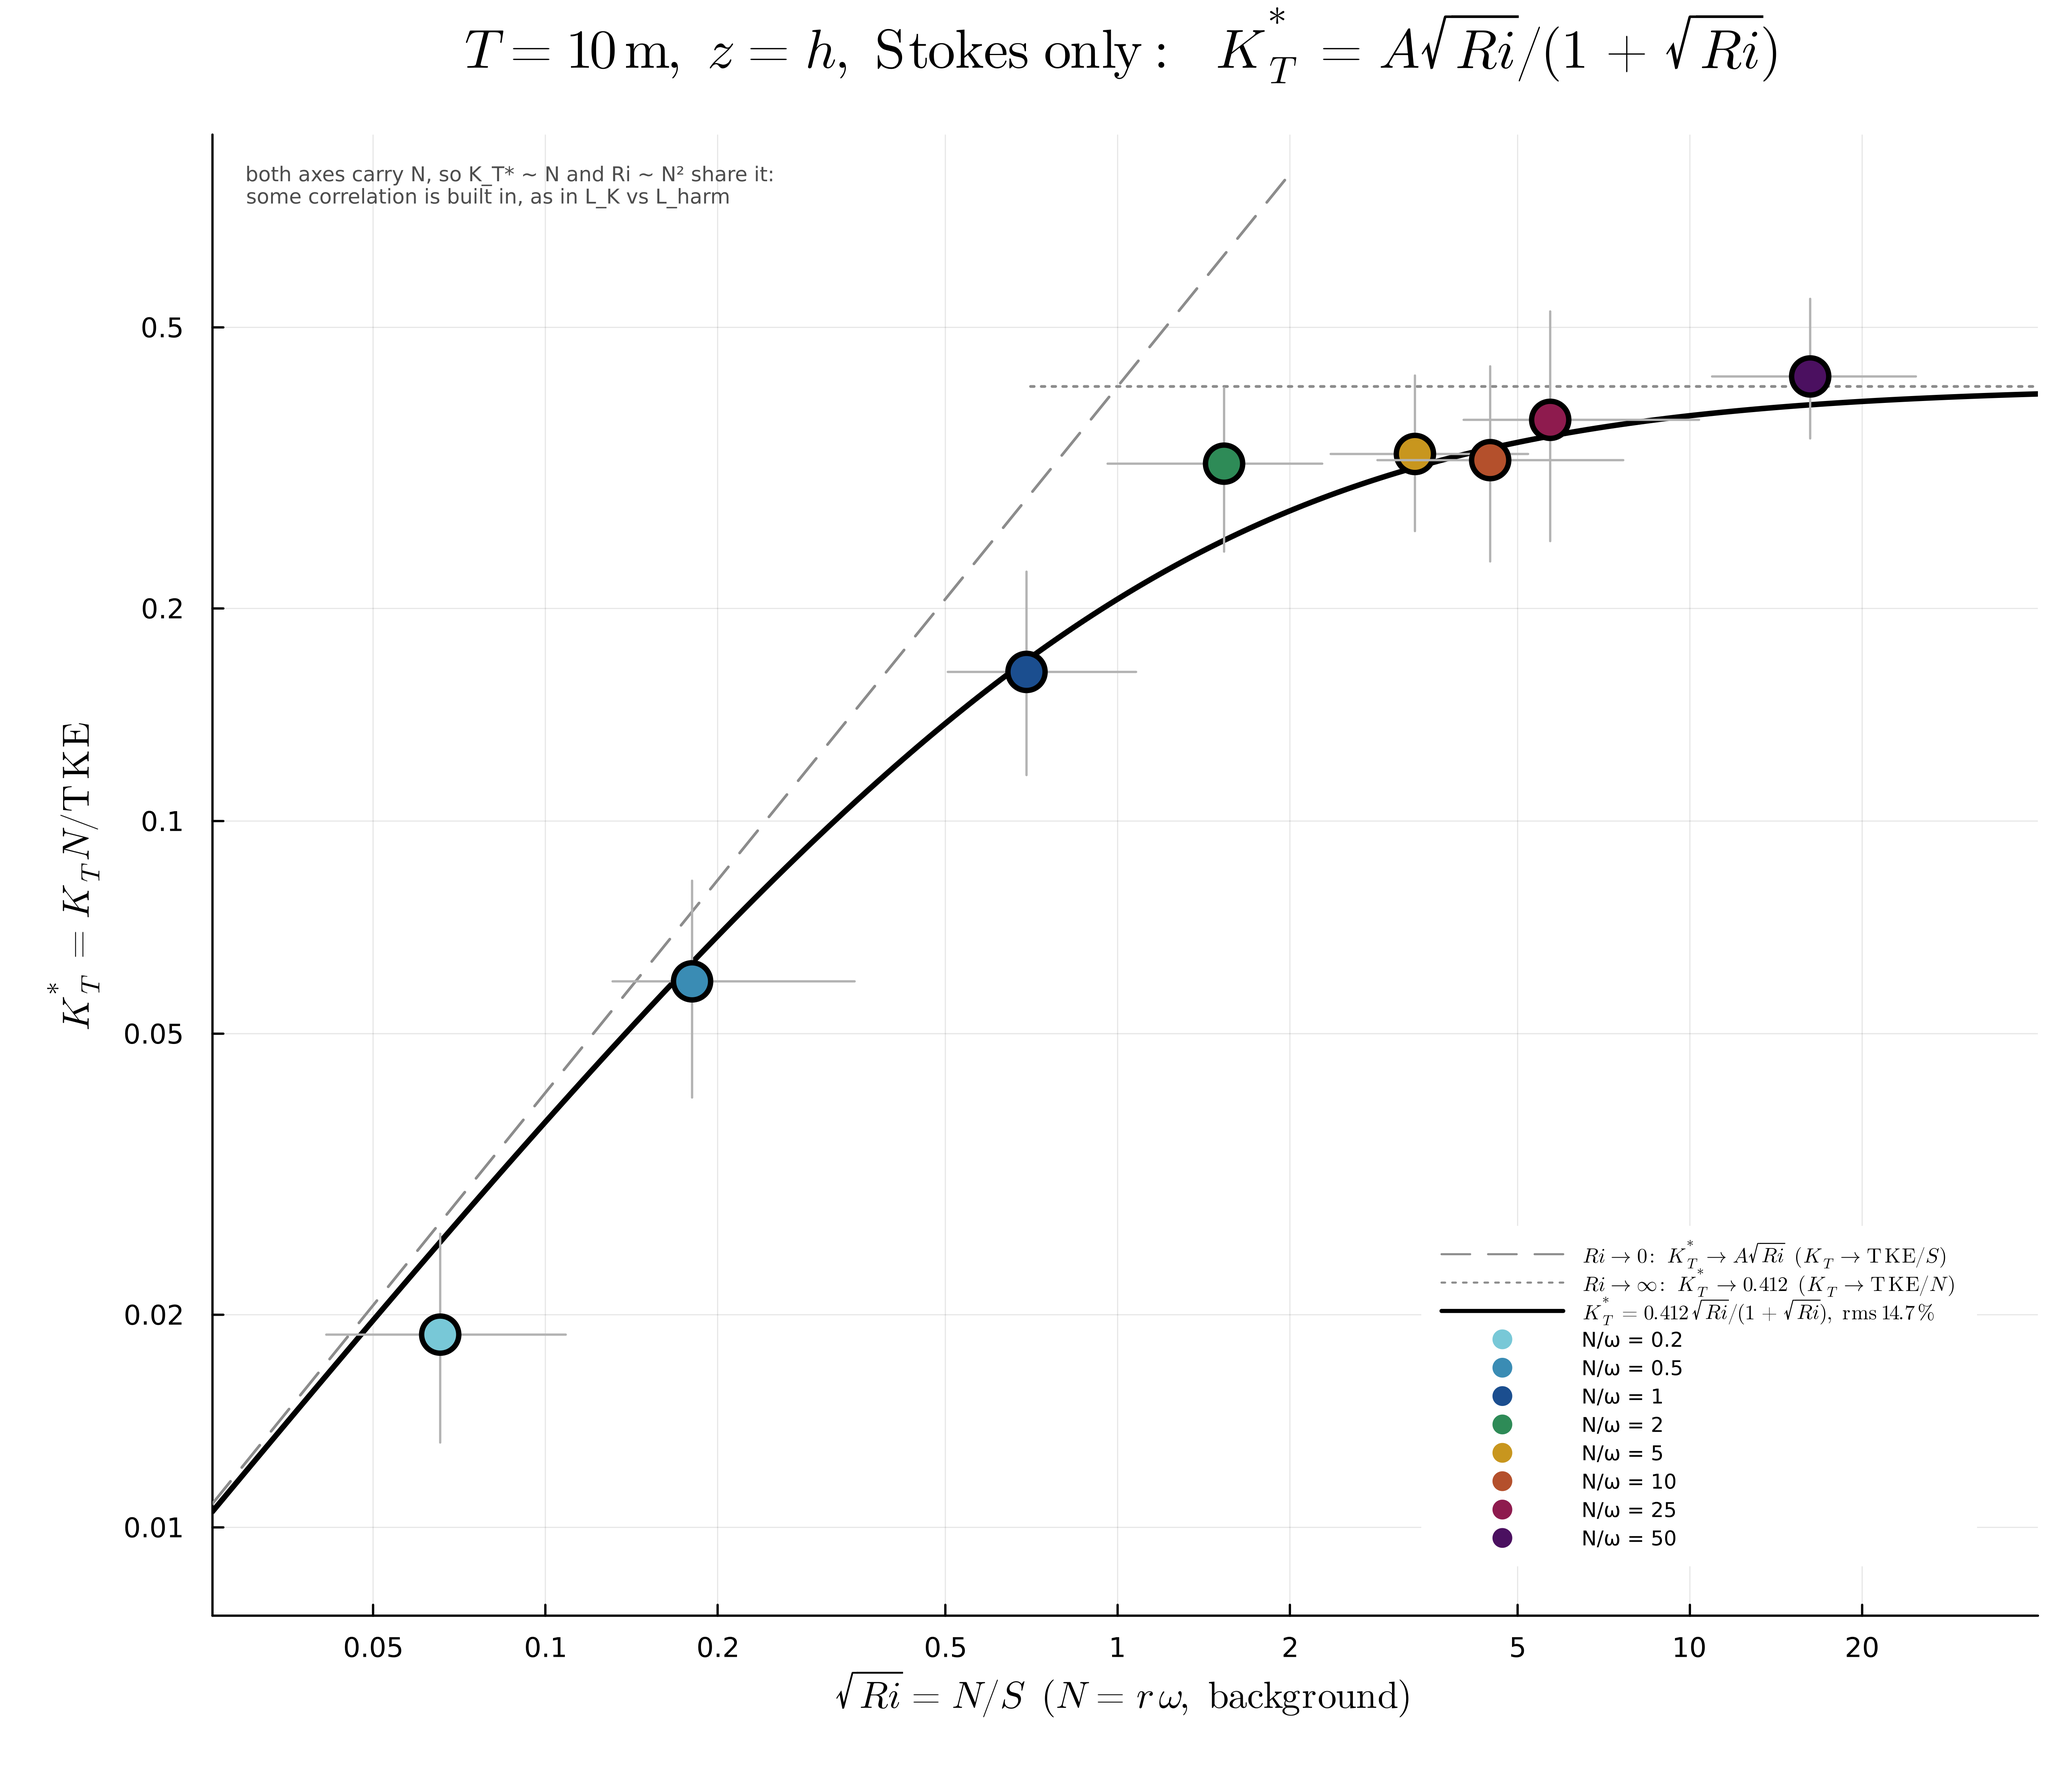
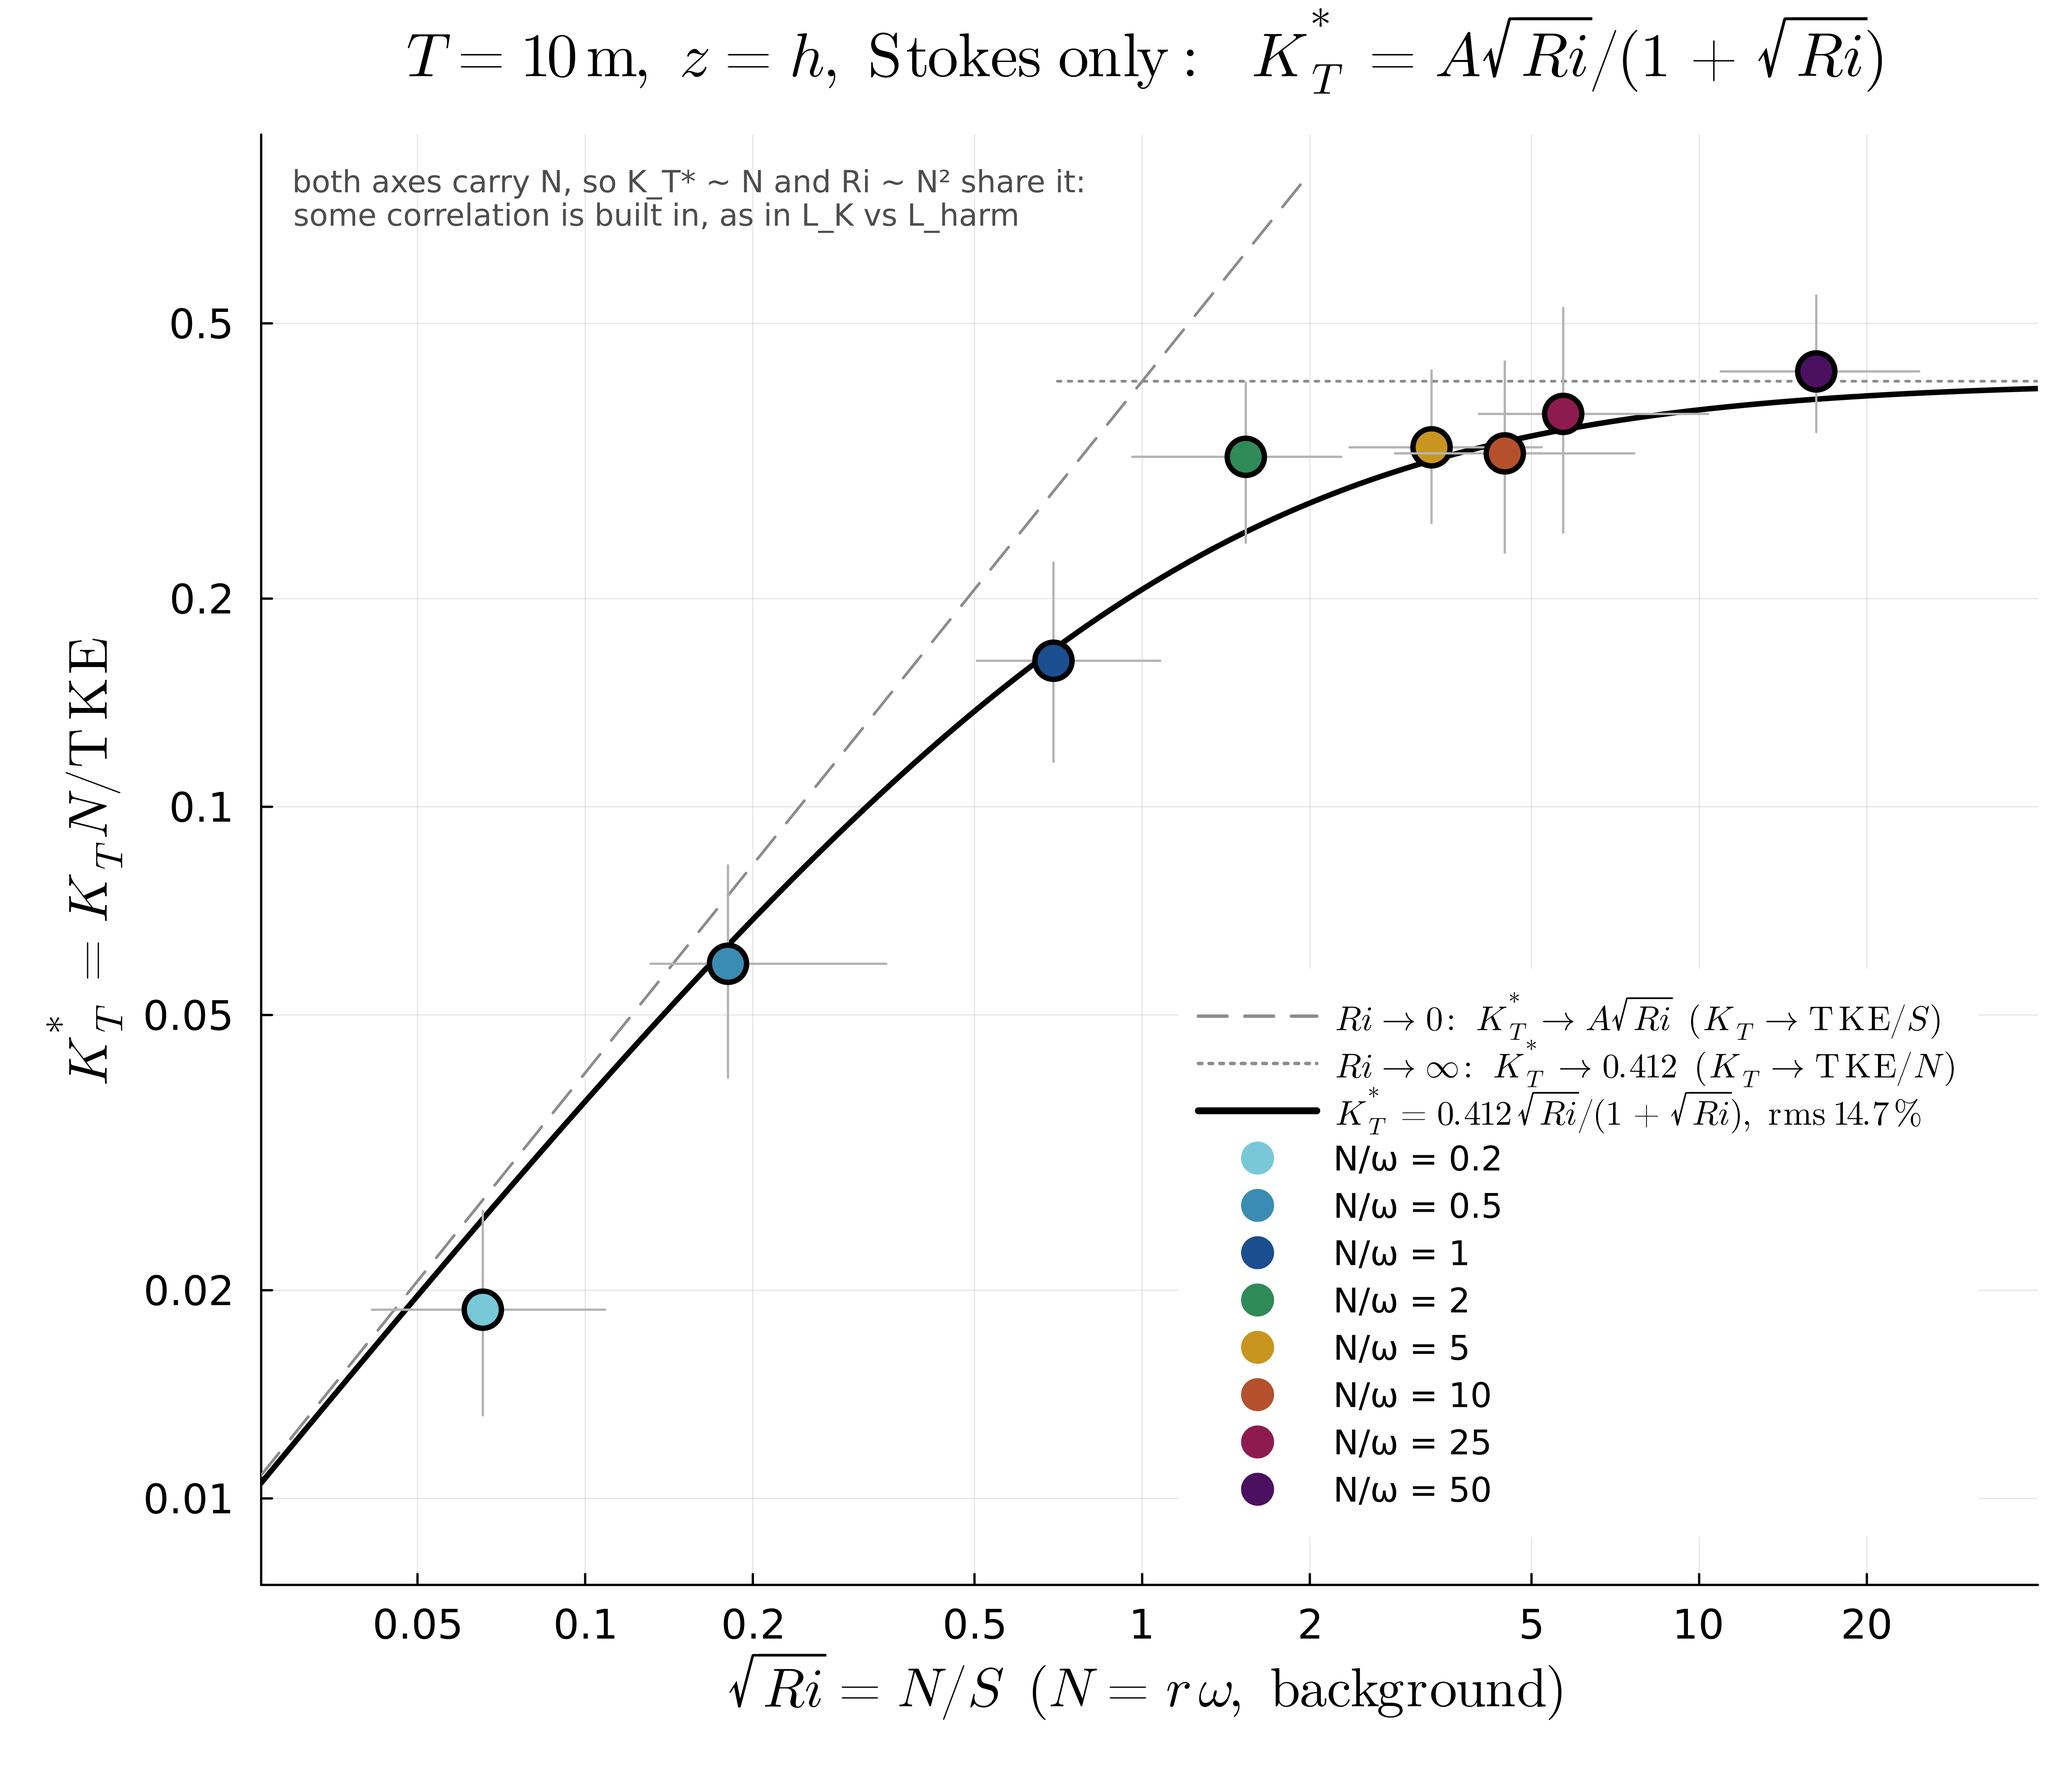
non dimensionalised graphs update

diff --git a/Combined/README.md b/Combined/README.md
@@ -643,6 +643,56 @@ What stays out of reach either way is the **well-mixed interior**, where `Ri` is
 genuinely small: there is no gradient there, so `K_T = −F_b/⟨∂b/∂z⟩` does not
 exist, and no choice of height changes that.
 
+### Text size on the `K_T*` figures
+
+The four `K_T*` scripts (`plot_KTstar_Ri_{stokes,ekman,zscan,zscan_ekman}_T10.jl`)
+use larger fonts than the rest of `plot/` — axis labels 16, ticks 12, legend 10,
+title 18, annotations 9 — so they read on a slide. On
+`KTstar_vs_Ri_zscan_T10.png` that crowded the 1-2-5 x ticks over eight decades
+into each other, so that axis is ticked at decades only.
+
+### The height scan, Ekman only — `plot/plot_KTstar_Ri_zscan_ekman_T10.jl`
+
+```
+cd Combined
+GKSwstype=100 julia --project=. plot/plot_KTstar_Ri_zscan_ekman_T10.jl   # ~minutes, reads Moments.jld2
+```
+
+The Ekman half of the scan above, on its own axes, with its own fit. Same
+construction, same heights, same masks; the all-`r` fit reproduces the both-flows
+script's Ekman row exactly (`A` = 0.1488, 52.3 %, `n` = 50), which is the check
+that the port is faithful. Two figures, same axis limits so they sit side by side:
+
+- `figures/KTstar_vs_Ri_zscan_ekman_T10.png` — all eight `r`
+- `figures/KTstar_vs_Ri_zscan_ekman_lowr_T10.png` — `r` = 25 and 50 left out (`DROP = 25`)
+
+| set | `A` | rms | `n` | `Ri` range |
+|---|---|---|---|---|
+| all `r` | 0.149 | 52.3 % | 50 | 8.8×10⁻³ → 4.5×10⁵ |
+| `r` < 25 | 0.122 | 39.8 % | 38 | 8.8×10⁻³ → 5.8×10⁴ |
+
+Per-`r` median of `K_T*`/fit (all-`r` fit → `r` < 25 fit):
+
+| r | 0.2 | 0.5 | 1 | 2 | 5 | 10 | 25 | 50 |
+|---|---|---|---|---|---|---|---|---|
+| all | 1.05 | 0.75 | 0.83 | 0.73 | 0.54 | 0.74 | 1.47 | 2.44 |
+| `r` < 25 | 1.28 | 0.91 | 1.01 | 0.89 | 0.66 | 0.90 | — | — |
+
+**Why those two:** `r` = 25 and 50 are the cases whose points keep climbing at
+high `Ri` instead of flattening, to `K_T*` 0.3–0.5 against a plateau of ~0.1 for
+the rest. They are also the two thinnest layers (`h` = 8.3 and 6.2 m against
+11–23 m for `r` ≤ 10), so the same `z/h` puts their scan at a different place
+relative to the stratification above. Leaving them out is a choice on how the
+points look, not on a physical criterion, and should be presented that way.
+
+**What it buys:** rms 52 → 40 % and a lower plateau, `A` = 0.122. It does
+**not** make the scan tight — 40 % is still nearly three times the Stokes `z = h`
+figure's 14.7 % — and the plateau moves *further* from Stokes (0.331), so it does
+not help the universality question. Two outliers remain in the kept set: `r` = 1
+at `z/h` = 2.5 and 3.0 (`K_T*` 0.18, 0.62), the same climb at the top of the scan.
+With the plateau lowered, the low-`Ri` points (`r` = 0.2, 0.5) now sit above the
+curve rather than on it.
+
 ## The one-figure summary
 
 ```

diff --git a/Combined/HANDOVER.md b/Combined/HANDOVER.md
@@ -57,7 +57,7 @@ STANDING RULES:
   Scripts live one level down and are invoked with their folder, e.g.
   `GKSwstype=100 julia --project=. plot/plot_delta_T10.jl`. The layout is
       Combined/sweep.jl, mixed_layer_height.jl   shared, included by everything
-      Combined/plot/     the 14 plot_* scripts
+      Combined/plot/     the 15 plot_* scripts
       Combined/reduce/   the 3 reduce_* scripts
       Combined/run/      ekmanrun.jl, swirles.sh
       Combined/Data/raw/      Ekman, Ekman_moments, lowN, rough_ekman
@@ -68,7 +68,10 @@ STANDING RULES:
   must do the same, not @__DIR__.
 - One figure per question. Extra diagnostics go in the log file, not more panels.
 - Every plotting script opens with default(dpi = 600, fontfamily = "DejaVu
-  Sans") and uses LaTeXStrings for all labels.
+  Sans") and uses LaTeXStrings for all labels. The four K_T* scripts also set
+  guidefontsize 16, tickfontsize 12, legendfontsize 10, plot_titlefontsize 18
+  and annotation text 9 (enlarged 2026-10-07); new nondimensional figures
+  should match.
 
 WHERE THINGS STAND:
 The sweep is 16 cases — Stokes and Ekman each at r = 0.2, 0.5, 1, 2, 5, 10, 25,
@@ -155,6 +158,13 @@ cases sit at Ri = 8-13 and the fit rests entirely on r = 0.2 and 0.5. Keep it as
 the visual argument for why the rotating column cannot carry the relation, NOT
 as a result — and do not quote its 26.2 % against the Stokes 14.7 % as if the
 two were comparable measurements.
+
+Built 2026-10-07: plot_KTstar_Ri_zscan_ekman_T10.jl, the Ekman half of the
+height scan on its own, two figures: all r (A = 0.149, rms 52 %) and r = 25, 50
+dropped (A = 0.122, rms 40 %). Those two climb at high Ri instead of flattening
+and are the thinnest layers (h = 6-8 m). Dropping them was chosen by eye, not
+on a physical criterion — say so if it is shown. It does not close the gap to
+Stokes; the plateau moves further away.
 
 NEXT STEP: not chosen. The open list at the end of LOG.txt is the menu; the
 strongest item is a second pycnocline depth (T = 15 or 20, which already exist
